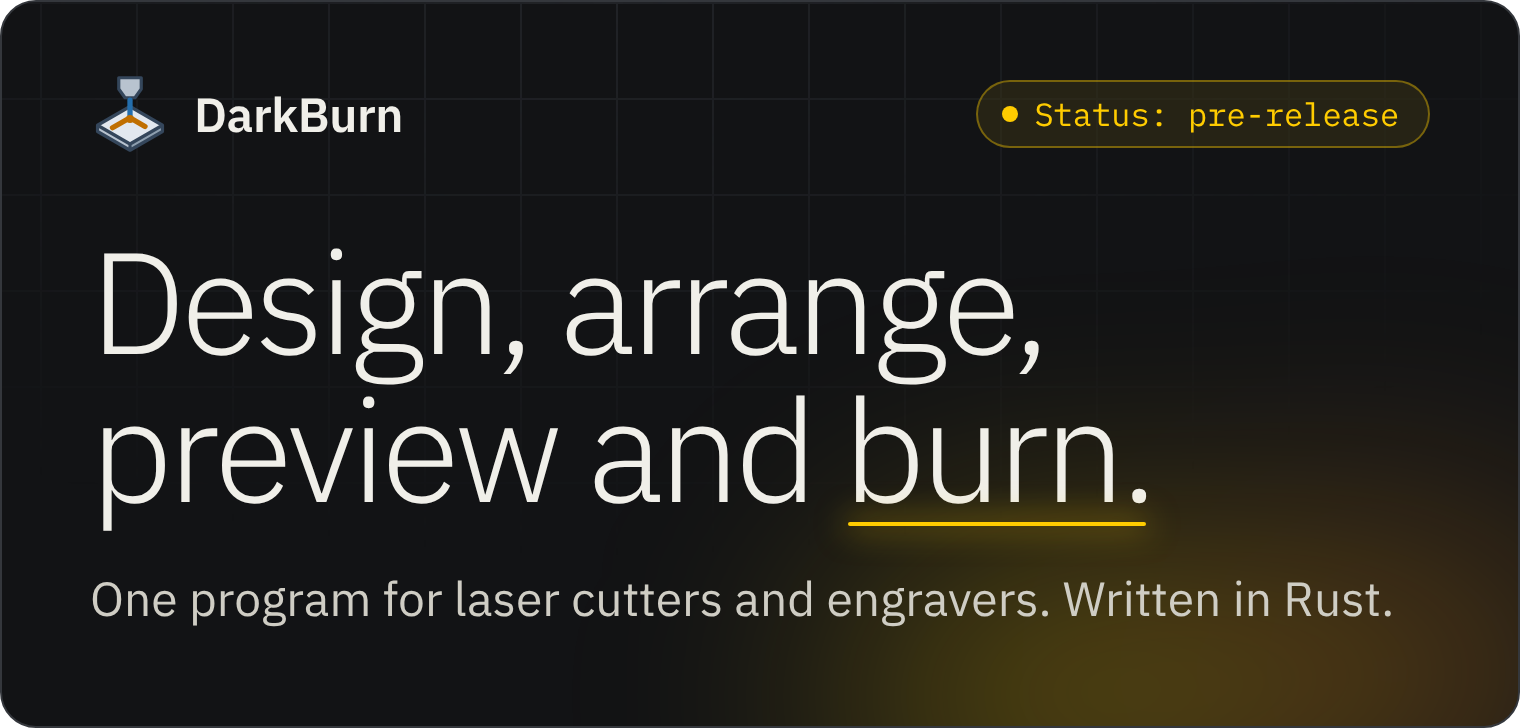
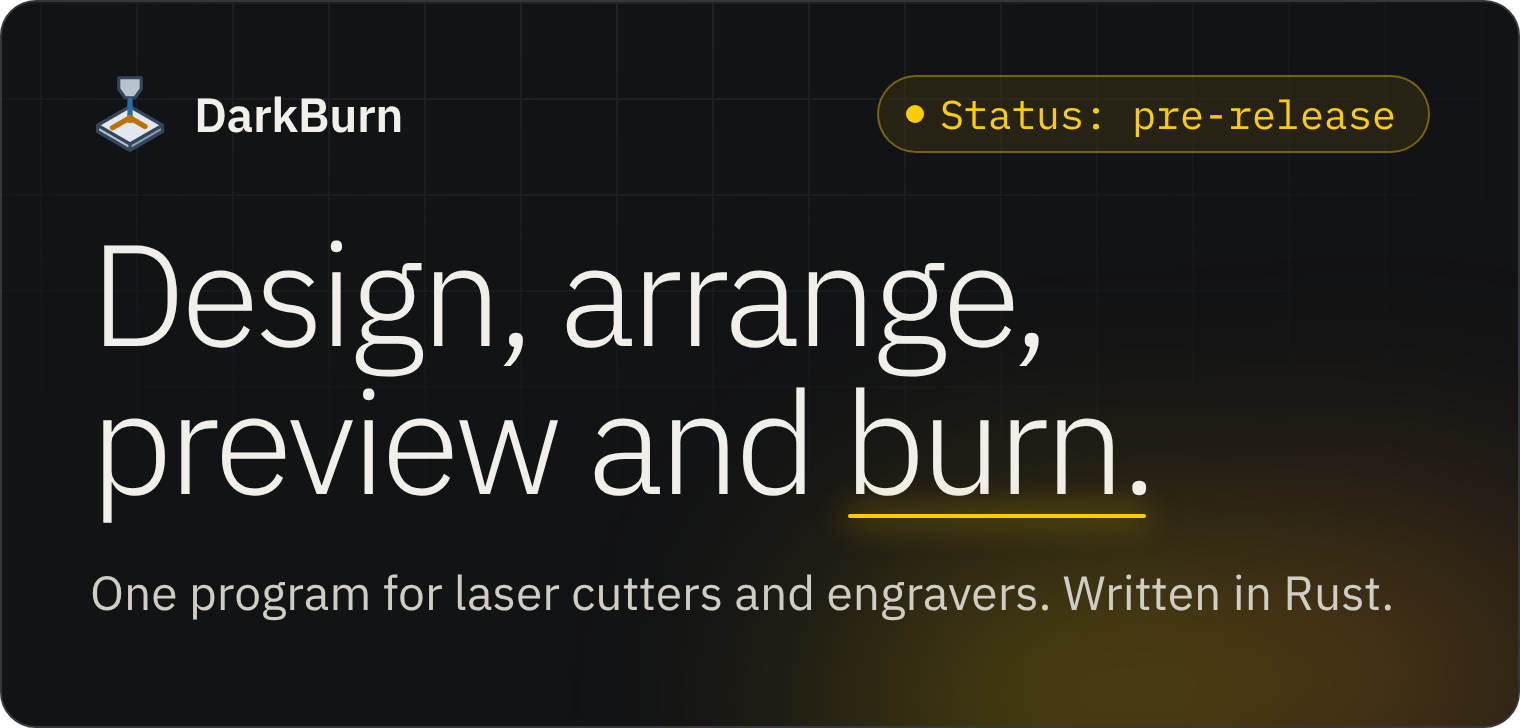
Web page: from the check of the fixed state
- README: the picture at the top stands in a paragraph, not in a heading. A heading that holds
  only a picture gave the README's outline an empty first entry. The status label in the
  picture is larger, so it can be read on a phone.
- tools/readme-banner.html is the page the picture is taken of, with the two commands that
  draw it again.
- .gitattributes names the page's text files one kind at a time (a picture put into site/
  would otherwise be stored damaged), and also the icon drawing and the fonts' licence text,
  which the build reads byte for byte: the build now works in a checkout on Windows.
- pages.yml: a publishing run also warns when GitHub does not report the domain as verified,
  including when that step was never done. The values GitHub answers are read one on a line,
  and an error text is put on one line. The setup notes name the CAA record, the wait for the
  TXT record, and what to do when the name is still taken.

Claude-Session: https://claude.ai/code/session_01Wk6s7AQJDbWa25bpPMk5WA

diff --git a/tools/readme-banner.html b/tools/readme-banner.html
@@ -1,0 +1,60 @@
+<!doctype html>
+<html lang="en">
+<head>
+<meta charset="utf-8">
+<title>The picture at the top of the README</title>
+<!--
+  docs/readme-banner.png is a picture of this page: the top of the web page (site/), drawn with
+  the page's own style sheet, fonts and icon. To draw it again, from the repository's folder:
+
+    sh scripts/build-site.sh
+    chromium --headless --screenshot=docs/readme-banner.png --window-size=760,364 \
+      --force-device-scale-factor=2 --default-background-color=00000000 tools/readme-banner.html
+
+  The words here are the words of site/index.html and of the alt text in README.md: change all
+  three together. If the picture gets taller or shorter, change 364 above and the height in
+  README.md (half the picture's height in pixels).
+-->
+<link rel="stylesheet" href="../target/site/style.css">
+<style>
+  html, body { background: transparent; }
+  body { margin: 0; }
+  .banner {
+    position: relative; overflow: hidden; isolation: isolate;
+    width: 760px; height: 364px; padding: 34px 44px 0;
+    background: var(--bg); border: 1px solid var(--line); border-radius: 18px;
+  }
+  .banner::before {
+    content: ""; position: absolute; inset: 0; z-index: -1;
+    background-image: linear-gradient(var(--grid1) 1px, transparent 1px), linear-gradient(90deg, var(--grid1) 1px, transparent 1px);
+    background-size: 3rem 3rem; background-position: center top;
+    -webkit-mask-image: radial-gradient(ellipse 85% 90% at 40% 0%, #000 0%, transparent 85%);
+    mask-image: radial-gradient(ellipse 85% 90% at 40% 0%, #000 0%, transparent 85%);
+  }
+  .banner::after {
+    content: ""; position: absolute; z-index: -1; right: -90px; bottom: -150px; width: 520px; height: 330px;
+    background: radial-gradient(45% 55% at 38% 50%, rgba(255, 204, 0, .34), transparent 72%), radial-gradient(45% 55% at 70% 46%, rgba(255, 159, 26, .30), transparent 72%);
+    filter: blur(52px);
+  }
+  .banner__top { display: flex; align-items: center; justify-content: space-between; height: 44px; margin-bottom: 30px; }
+  .banner .brand { order: 0; font-size: 1.5rem; gap: .75rem; }
+  .banner .brand img { width: 2.5rem; height: 2.5rem; }
+  .banner .pill { font-size: 1.25rem; padding: .34rem 1rem .34rem .85rem; margin-bottom: 0; }
+  .banner .pill__dot { width: .5625rem; height: .5625rem; }
+  .banner h1 { font-size: 4.5rem; }
+  .banner .hero__lead { font-size: 1.5rem; margin-top: 1.375rem; color: var(--soft); }
+  /* The line under "burn." is drawn in, not animated: the picture is taken at once. */
+  .banner .burn::after { animation: none; }
+</style>
+</head>
+<body>
+<div class="banner">
+  <div class="banner__top">
+    <span class="brand"><img src="../target/site/icon.svg" width="40" height="40" alt=""><span>DarkBurn</span></span>
+    <p class="pill"><span class="pill__dot" aria-hidden="true"></span>Status: pre-release</p>
+  </div>
+  <h1><span>Design, arrange,</span> <span>preview and <span class="burn">burn.</span></span></h1>
+  <p class="hero__lead"><span>One program for laser cutters and engravers.</span> <span>Written in Rust.</span></p>
+</div>
+</body>
+</html>

diff --git a/CONTRIBUTING.md b/CONTRIBUTING.md
@@ -58,7 +58,7 @@ Pictures of what each test saw land in `target/ui-snapshots/`. Look at them.
 
 ## The web page
 
-`site/` is the page at https://darkburn.phobic.no. It says about DarkBurn what the [README](README.md) says, in fewer words: change the README first, then the page.
+`site/` is the page for https://darkburn.phobic.no. It says about DarkBurn what the [README](README.md) says, in fewer words: change the README first, then the page.
 
 ```sh
 sh scripts/build-site.sh
@@ -67,7 +67,7 @@ python3 -m http.server -d target/site
 
 The script puts the page together in `target/site` with copies of the pictures in `docs/img`, the fonts and the icon, and checks that every file the page points to is there, that nothing is fetched from another host and that every page carries its Content-Security-Policy line. That line allows only the page's own files, so script and style go in `site/site.js` and `site/style.css`, never inside the HTML. `site/` holds four files and the script publishes a fixed list of files: a new file is named in `scripts/build-site.sh` first. A push to `main` that changes the page, the pictures, the fonts or the icon publishes it, once GitHub Pages is switched on for the repository. What the owner sets by hand for that is listed at the top of `.github/workflows/pages.yml`.
 
-The picture at the top of the README, `docs/readme-banner.png`, shows the top of the page: status, headline and the line under it. When one of those changes on the page, the picture is drawn again.
+The picture at the top of the README, `docs/readme-banner.png`, shows the top of the page: status, headline and the line under it. When one of those changes on the page, the picture is drawn again from `tools/readme-banner.html`; the two commands are at the top of that file.
 
 ## Changelog and version
 

diff --git a/ATTRIBUTION.md b/ATTRIBUTION.md
@@ -284,7 +284,7 @@ the constants and the order of the steps come from the published descriptions.
 | `assets/icons/app/darkburn-256.png`, `assets/icons/app/darkburn.ico` | DarkBurn contributors | DarkBurn's own mark, a rendering of `assets/icons/ui/design/svg/model/db_app.svg` | MIT OR Apache-2.0 |
 | `assets/locales/en.json`, `assets/locales/nb.json` | DarkBurn contributors | DarkBurn's own interface text in English and Norwegian, compiled into `darkburn` (`apps/darkburn/src/i18n.rs`). A test in that file writes `en.json` from the code when `DARKBURN_WRITE_LOCALES` is set; `nb.json` is the translation. Not copied from SolidCraft's `assets/locales` | MIT OR Apache-2.0 |
 | `site/*` | DarkBurn contributors | DarkBurn's own web page, https://darkburn.phobic.no. `scripts/build-site.sh` puts it together with copies of the pictures in `docs/img`, of the two IBM Plex fonts above with their licence text, and of the app icon. The page fetches nothing from another host | MIT OR Apache-2.0 |
-| `docs/readme-banner.png` | DarkBurn contributors | The picture at the top of the README: the top of DarkBurn's own web page (`site/`), drawn by a browser with the page's style sheet, the two IBM Plex fonts above and the app icon | MIT OR Apache-2.0 |
+| `docs/readme-banner.png`, `tools/readme-banner.html` | DarkBurn contributors | The picture at the top of the README and the page it is a picture of: the top of DarkBurn's own web page (`site/`), drawn by a browser with the page's style sheet, the two IBM Plex fonts above and the app icon | MIT OR Apache-2.0 |
 
 Twelve of the copied theme files use the colours of a named palette. Each file names it in its
 `provenance` field. Authors, addresses and licences are as SolidCraft's `ATTRIBUTION.md` gives

diff --git a/README.md b/README.md
@@ -1,6 +1,6 @@
-<h1 align="center">
-  <img src="docs/readme-banner.png" width="760" alt="DarkBurn. Status: pre-release. Design, arrange, preview and burn. One program for laser cutters and engravers. Written in Rust.">
-</h1>
+<p align="center">
+  <img src="docs/readme-banner.png" width="760" height="364" alt="DarkBurn. Status: pre-release. Design, arrange, preview and burn. One program for laser cutters and engravers. Written in Rust.">
+</p>
 
 <p align="center">
   <a href="#install">Install</a> ·
